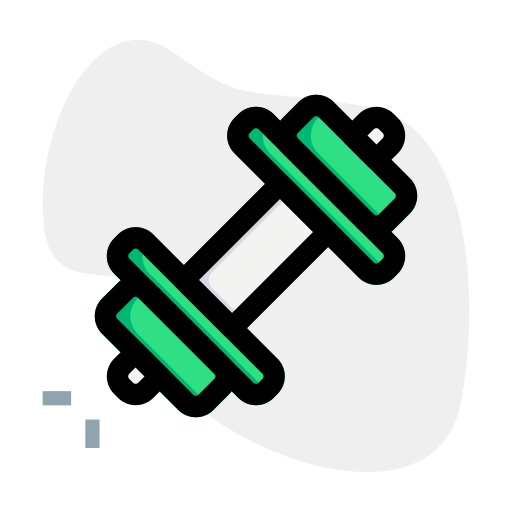
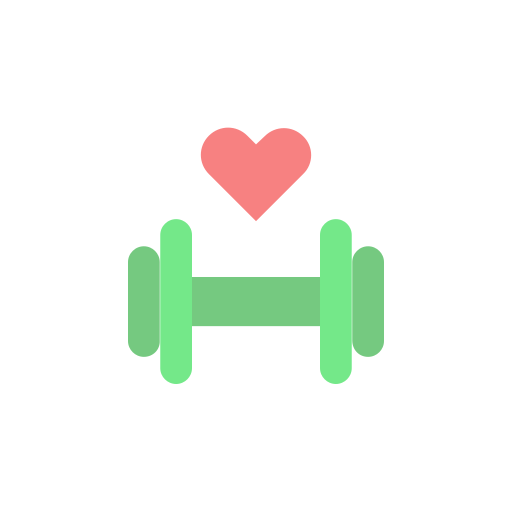
install motion for CountUp

Changed region(s): [[0.1875, 0.1875, 0.8125, 0.8125], [0.0625, 0.75, 0.1562, 0.8125], [0.1562, 0.8125, 0.2188, 0.875]]

diff --git a/frontend/src/pages/Home.jsx b/frontend/src/pages/Home.jsx
@@ -167,25 +167,31 @@ function Home() {
 
       <section className="stats-section">
         <div className="stat-box">
-          <img src={gymIcon} className="stat-icon" />
-          <div className="stat-number">
-            <CountUp to={500} />
+          <div className="stat-top">
+            <img src={gymIcon} className="stat-icon" />
+            <div className="stat-number">
+              <CountUp to={500} />
+            </div>
           </div>
           <div className="stat-label">Active Members</div>
         </div>
 
         <div className="stat-box">
-          <img src={trainerIcon} className="stat-icon" />
-          <div className="stat-number">
-            <CountUp to={12} />
+          <div className="stat-top">
+            <img src={trainerIcon} className="stat-icon" />
+            <div className="stat-number">
+              <CountUp to={12} />
+            </div>
           </div>
           <div className="stat-label">Expert Trainers</div>
         </div>
 
         <div className="stat-box">
-          <img src={certIcon} className="stat-icon" />
-          <div className="stat-number">
-            <CountUp to={8} />
+          <div className="stat-top">
+            <img src={certIcon} className="stat-icon" />
+            <div className="stat-number">
+              <CountUp to={8} />
+            </div>
           </div>
           <div className="stat-label">Years of Excellence</div>
         </div>

diff --git a/frontend/src/pages/Home.css b/frontend/src/pages/Home.css
@@ -312,11 +312,17 @@ section {
   );
 }
 
+.stat-top {
+  display: flex;
+  align-items: center;
+  justify-content: center;
+  gap: 16px;
+}
+
 .stat-icon {
-  height: 48px;
-  width: 48px;
+  height: 42px;
+  width: 42px;
   object-fit: contain;
-  margin-bottom: 14px;
   filter: drop-shadow(0 0 6px rgba(28, 219, 44, 0.6));
 }
 
